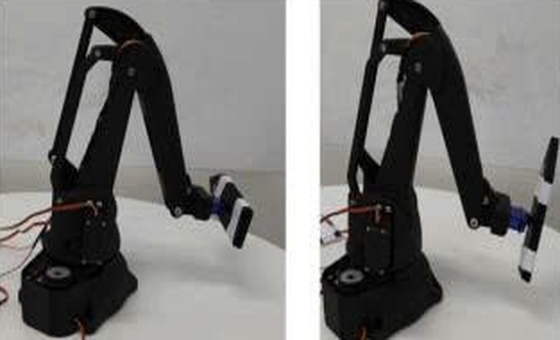
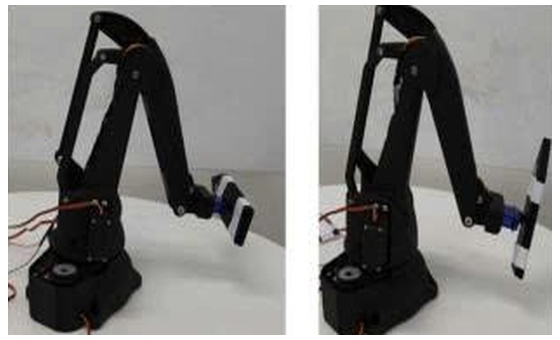
Fix robot_arm thumbnail scaling with fit-contain-white and extract full author list from robotarm.pdf

diff --git a/app.js b/app.js
@@ -116,7 +116,11 @@ function renderTimeline() {
     let fitClass = "";
     if (project.title.toLowerCase().includes("chip-8")) {
       fitClass = "fit-contain";
-    } else if (project.title.toLowerCase().includes("arrival time") || (project.image && project.image.includes("thesis"))) {
+    } else if (
+      project.title.toLowerCase().includes("arrival time") || 
+      project.title.toLowerCase().includes("robot") ||
+      (project.image && (project.image.includes("thesis") || project.image.includes("robot")))
+    ) {
       fitClass = "fit-contain-white";
     }
 
